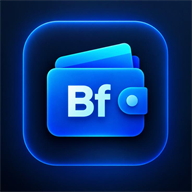
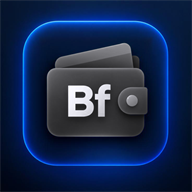
Icoon: blauwe rand, grijze portemonnee (cache v4)

Changed region(s): [[0.2188, 0.2188, 0.7812, 0.7188]]

diff --git a/index.html b/index.html
@@ -1,4 +1,4 @@
-<!doctype html><html lang="nl"><head><meta charset="utf-8"><meta name="viewport" content="width=device-width,initial-scale=1,viewport-fit=cover"><title>Bjorn Finance</title><meta name="theme-color" content="#0B6E7F"><meta name="apple-mobile-web-app-capable" content="yes"><meta name="mobile-web-app-capable" content="yes"><meta name="apple-mobile-web-app-title" content="Finance"><meta name="apple-mobile-web-app-status-bar-style" content="default"><link rel="manifest" href="manifest.webmanifest"><link rel="apple-touch-icon" href="apple-touch-icon.png?v=3"><link rel="icon" type="image/png" href="favicon.png?v=3"><style>:root{color-scheme:light;box-sizing:border-box;padding-top:env(safe-area-inset-top,0px);padding-bottom:env(safe-area-inset-bottom,0px)}html{scroll-padding-top:env(safe-area-inset-top,0px)}body{margin:0;padding:0;font:14px -apple-system,BlinkMacSystemFont,sans-serif;background:#fff;color:#000}img{max-width:100%}[hidden]:not([hidden=until-found i]){display:none!important}</style>
+<!doctype html><html lang="nl"><head><meta charset="utf-8"><meta name="viewport" content="width=device-width,initial-scale=1,viewport-fit=cover"><title>Bjorn Finance</title><meta name="theme-color" content="#0B6E7F"><meta name="apple-mobile-web-app-capable" content="yes"><meta name="mobile-web-app-capable" content="yes"><meta name="apple-mobile-web-app-title" content="Finance"><meta name="apple-mobile-web-app-status-bar-style" content="default"><link rel="manifest" href="manifest.webmanifest"><link rel="apple-touch-icon" href="apple-touch-icon.png?v=4"><link rel="icon" type="image/png" href="favicon.png?v=4"><style>:root{color-scheme:light;box-sizing:border-box;padding-top:env(safe-area-inset-top,0px);padding-bottom:env(safe-area-inset-bottom,0px)}html{scroll-padding-top:env(safe-area-inset-top,0px)}body{margin:0;padding:0;font:14px -apple-system,BlinkMacSystemFont,sans-serif;background:#fff;color:#000}img{max-width:100%}[hidden]:not([hidden=until-found i]){display:none!important}</style>
 <link rel="preconnect" href="https://fonts.googleapis.com">
 <link rel="stylesheet" href="https://fonts.googleapis.com/css2?family=Sora:wght@500;600;700&family=Public+Sans:wght@400;500;600;700&display=swap">
 <style>

diff --git a/sw.js b/sw.js
@@ -1,5 +1,5 @@
 // Bjorn Finance service worker: bewaart de app zelf (niet je gegevens) zodat hij snel opent.
-const CACHE = 'bjorn-finance-v3';
+const CACHE = 'bjorn-finance-v4';
 const SHELL = ['./', 'index.html', 'supabase.js', 'manifest.webmanifest', 'icon-192.png', 'icon-512.png', 'apple-touch-icon.png', 'favicon.png'];
 
 self.addEventListener('install', e => {
